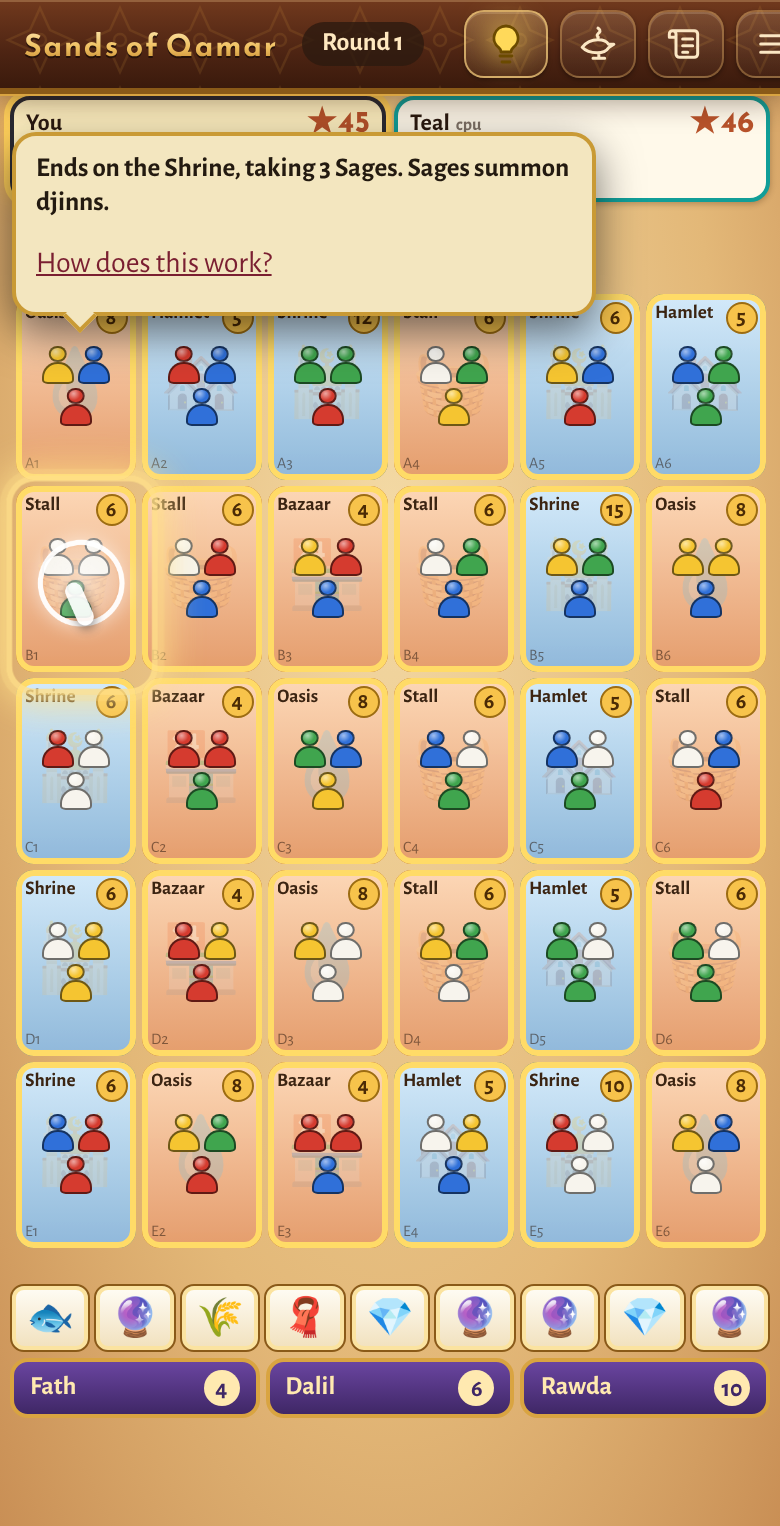
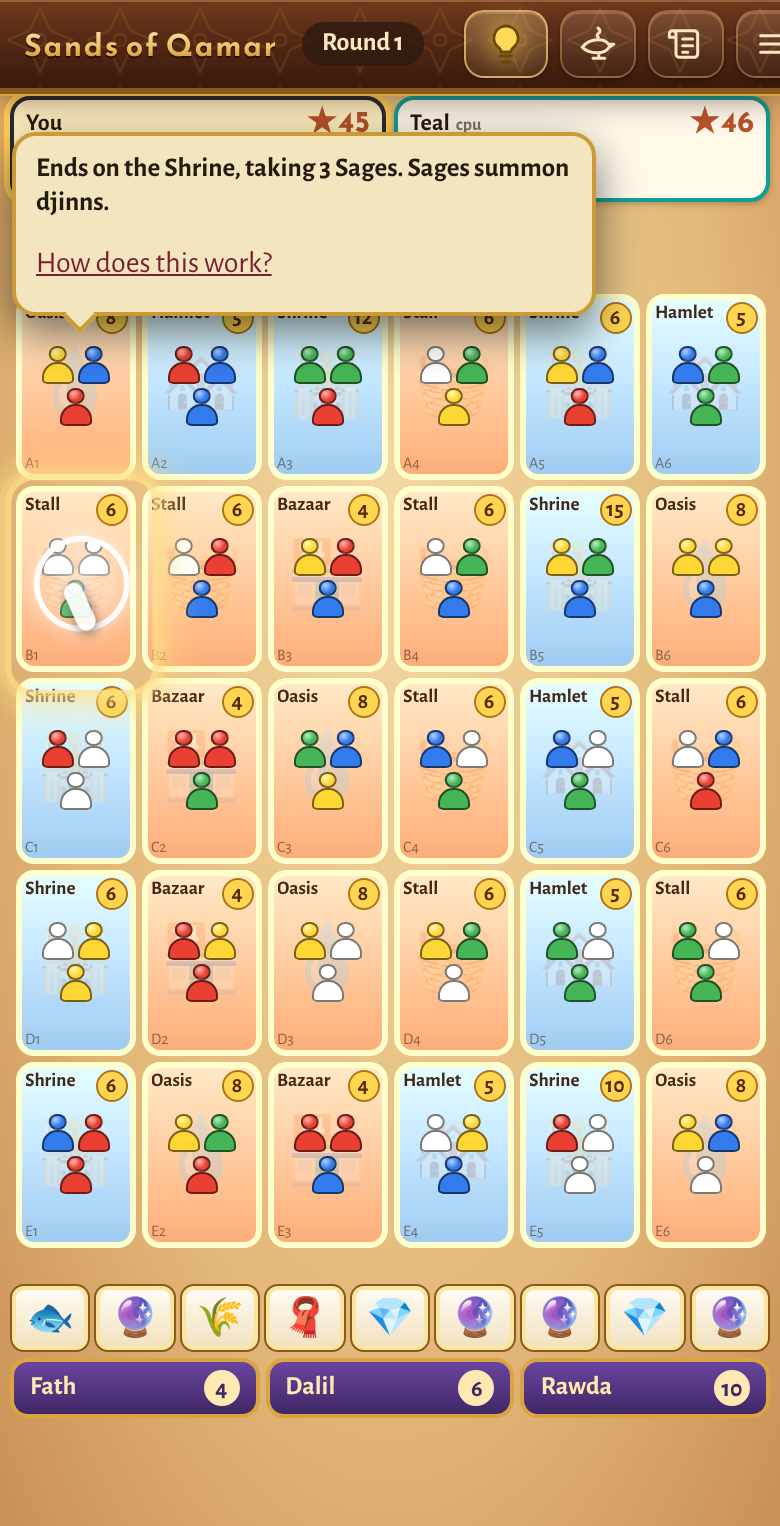
Sands of Qamar: help kit WIP (coach bubble points at the advised tile)

Changed region(s): [[0.0, 0.1848, 0.9846, 0.8316]]

diff --git a/games-src/ft/src/x.js b/games-src/ft/src/x.js
@@ -3591,10 +3591,11 @@ function hpics(items){return '<div class="gxh-pics">'+items.map(it=>it==='>'?'<s
 // ---------------------------------------------------------------- where each bubble points
 const hq=s=>()=>document.querySelector(s);
 const hfirst=(...sels)=>()=>{for(const s of sels){const e=document.querySelector(s);if(e&&e.getBoundingClientRect().width)return e}return null};
+const hadv=(...sels)=>()=>{try{const e=hlpEl(hlpAdvice());if(e&&e.getBoundingClientRect().width)return e}catch(x){}return hfirst(...sels)()};   // the advised tile when there is one
 const HLP_STEPS={
  bid:{target:hfirst('#acts .sp-b.glow'),title:'Buy turn order',text:'Tap a glowing spot. Dearer spots play earlier; free spots cost nothing.',pic:()=>HP.spot('3🪙')},
- lift:{target:hfirst('#grid .tile.glow'),title:'Lift a group',text:'Tap a glowing tile to pick up everyone standing on it.',pic:()=>HP.meeple('merchant')},
- drop:{target:hfirst('#grid .tile.glow'),title:'Drop one by one',text:'Tap a glowing neighbour to drop one person there. The last must match a colour.',pic:()=>HP.meeple('builder')},
+ lift:{target:hadv('#grid .tile.glow'),title:'Lift a group',text:'Tap a glowing tile to pick up everyone standing on it.',pic:()=>HP.meeple('merchant')},
+ drop:{target:hadv('#grid .tile.glow'),title:'Drop one by one',text:'Tap a glowing neighbour to drop one person there. The last must match a colour.',pic:()=>HP.meeple('builder')},
  collect:{target:hfirst('#acts .ab.go','#acts .ab'),title:'Use your tribe',text:'Tap Collect. The power chips below are optional extras.',pic:()=>HP.meeple('vizier')},
  mason:{target:hfirst('#acts .ab.go','#acts .ab'),title:'Choose your pay',text:'Masons earn coins for blue tiles around you. A Mystic adds one Mason.',pic:()=>HP.coin('+')},
  shadow:{target:hfirst('#grid .tile.glow','#seats .sch.glow','#acts .ab.go'),title:'Remove a person',text:'Tap a glowing tile or rival to remove someone there.',pic:()=>HP.meeple('assassin')},

diff --git a/games-src/ft/src/hlp.js b/games-src/ft/src/hlp.js
@@ -21,10 +21,11 @@ function hpics(items){return '<div class="gxh-pics">'+items.map(it=>it==='>'?'<s
 // ---------------------------------------------------------------- where each bubble points
 const hq=s=>()=>document.querySelector(s);
 const hfirst=(...sels)=>()=>{for(const s of sels){const e=document.querySelector(s);if(e&&e.getBoundingClientRect().width)return e}return null};
+const hadv=(...sels)=>()=>{try{const e=hlpEl(hlpAdvice());if(e&&e.getBoundingClientRect().width)return e}catch(x){}return hfirst(...sels)()};   // the advised tile when there is one
 const HLP_STEPS={
  bid:{target:hfirst('#acts .sp-b.glow'),title:'Buy turn order',text:'Tap a glowing spot. Dearer spots play earlier; free spots cost nothing.',pic:()=>HP.spot('3🪙')},
- lift:{target:hfirst('#grid .tile.glow'),title:'Lift a group',text:'Tap a glowing tile to pick up everyone standing on it.',pic:()=>HP.meeple('merchant')},
- drop:{target:hfirst('#grid .tile.glow'),title:'Drop one by one',text:'Tap a glowing neighbour to drop one person there. The last must match a colour.',pic:()=>HP.meeple('builder')},
+ lift:{target:hadv('#grid .tile.glow'),title:'Lift a group',text:'Tap a glowing tile to pick up everyone standing on it.',pic:()=>HP.meeple('merchant')},
+ drop:{target:hadv('#grid .tile.glow'),title:'Drop one by one',text:'Tap a glowing neighbour to drop one person there. The last must match a colour.',pic:()=>HP.meeple('builder')},
  collect:{target:hfirst('#acts .ab.go','#acts .ab'),title:'Use your tribe',text:'Tap Collect. The power chips below are optional extras.',pic:()=>HP.meeple('vizier')},
  mason:{target:hfirst('#acts .ab.go','#acts .ab'),title:'Choose your pay',text:'Masons earn coins for blue tiles around you. A Mystic adds one Mason.',pic:()=>HP.coin('+')},
  shadow:{target:hfirst('#grid .tile.glow','#seats .sch.glow','#acts .ab.go'),title:'Remove a person',text:'Tap a glowing tile or rival to remove someone there.',pic:()=>HP.meeple('assassin')},
